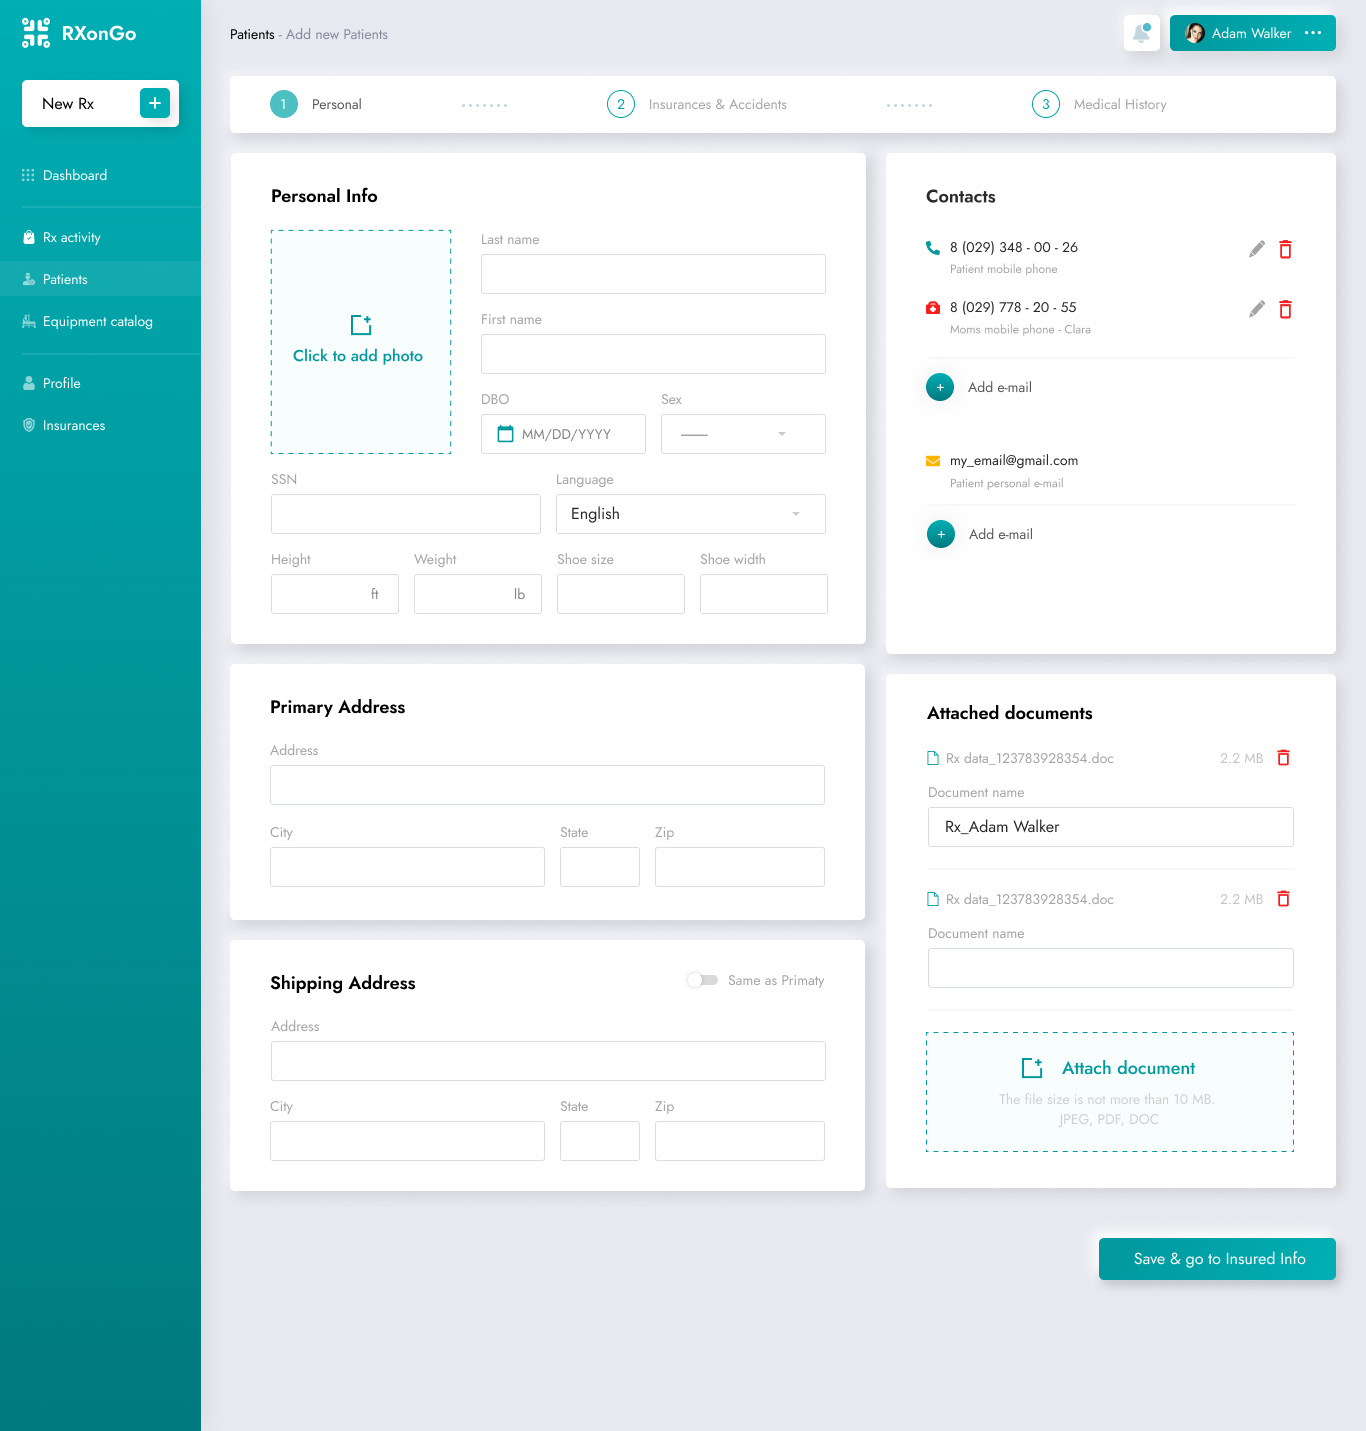
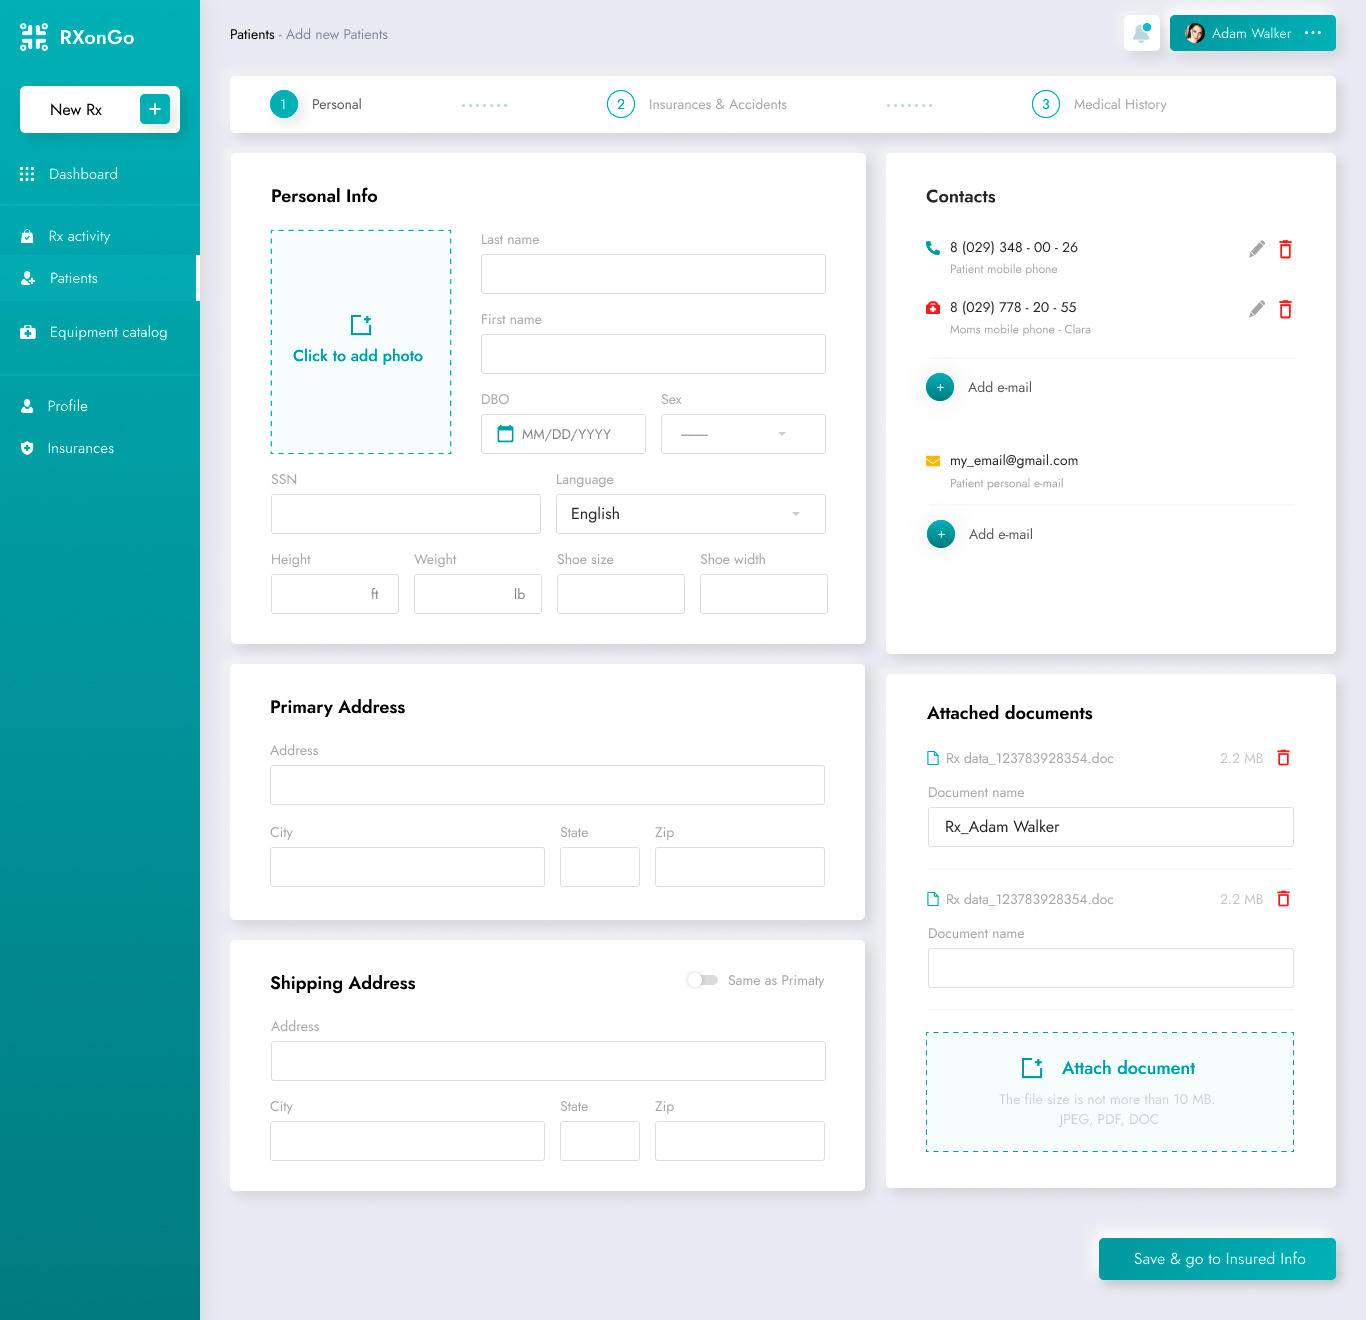
обновлены картинки в проекте rxongo

diff --git a/project/rxongo.html b/project/rxongo.html
@@ -35,6 +35,11 @@
                         <img class="c-image" src="../img/rxongo/rxongo_patient-info.jpg" alt="patient full info image">
                     </div>
                 </div>
+                <div class="row">
+                    <div class="row-container">
+                        <img class="c-image" src="../img/rxongo/rxongo_patient-info2.jpg" alt="add new patient image">
+                    </div>
+                </div>
 
                 <p class="project-gallery__title">Просмотр информации о складе</p>
                 <div class="row">
@@ -54,6 +59,13 @@
                 <div class="row">
                     <div class="row-container">
                         <img class="c-image" src="../img/rxongo/rxongo_orthopedics.jpg" alt="orthopedics image">
+                    </div>
+                </div>
+
+                <p class="project-gallery__title">Иллюстрации к разделу «Передвижение»</p>
+                <div class="row">
+                    <div class="row-container">
+                        <img class="c-image" src="../img/rxongo/rxongo_mobility.jpg" alt="mobility image">
                     </div>
                 </div>
 
